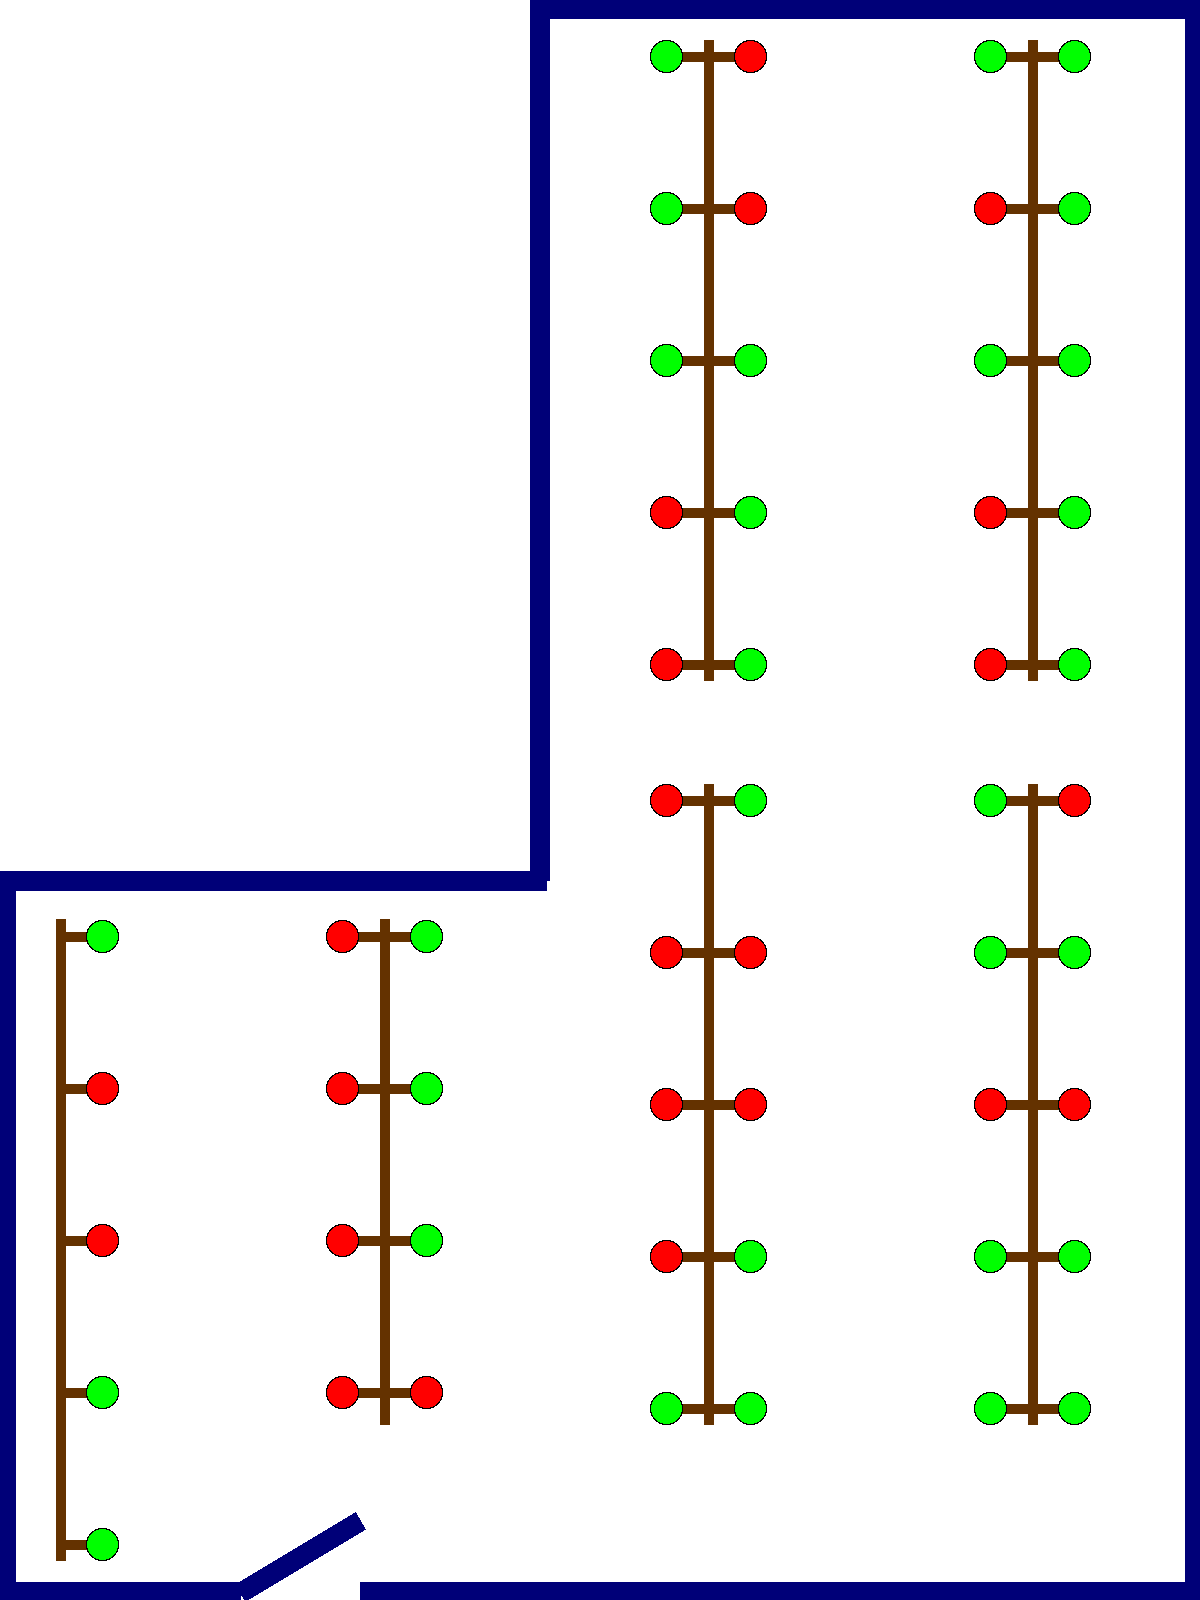
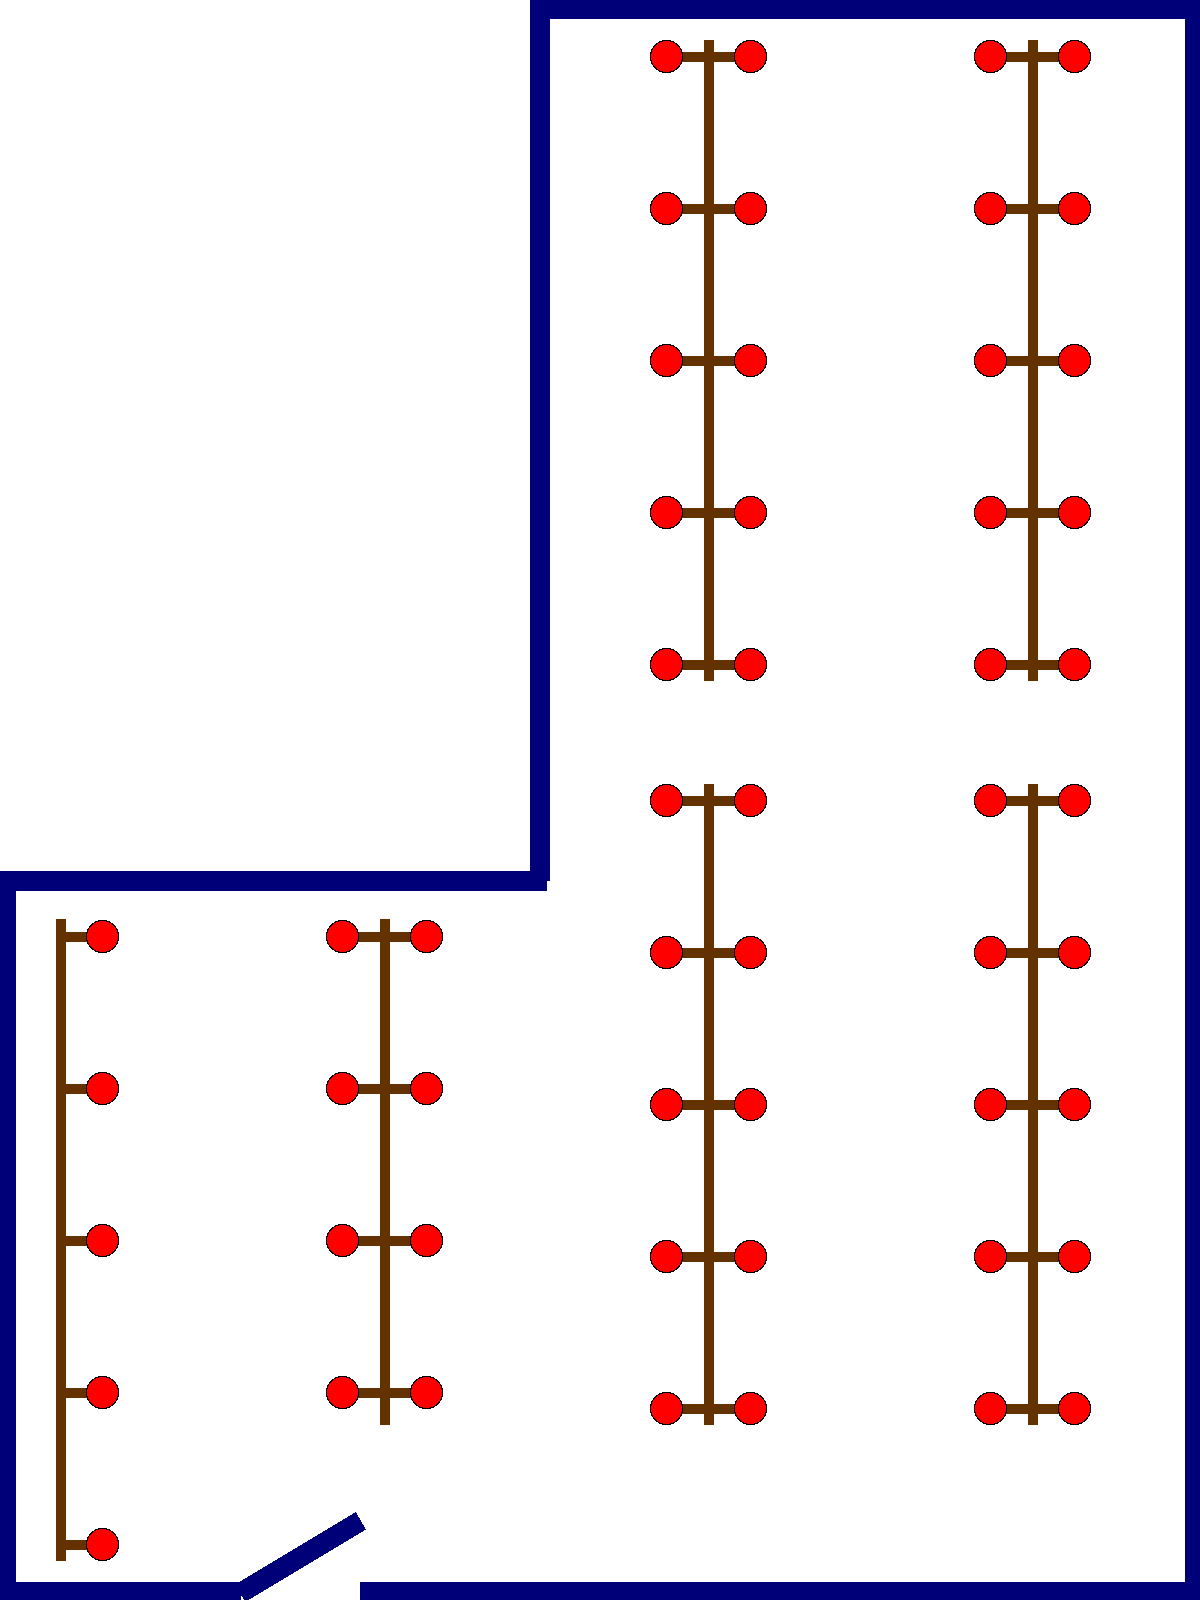
finished all my scripts. everything works completely now

diff --git a/DrawingScripts/Tootill1/drawTootill1.py b/DrawingScripts/Tootill1/drawTootill1.py
@@ -179,19 +179,15 @@ def imDrawer():
   colour = (255,255,255)
   nextStatus = ""
 
-  noGroups = True
-  if len(desiredGroups) != 0: # if there is no lab scheduled at the current time
-    noGroups = False
-
 
   for node in nodeCoords:
     # calculate node colour based off of status from database:
     nextStatus = cursor.fetchone()  # this returns a tuple in which the first value is the colour of that seat
     nextStatus = nextStatus[0].split(",")
-
+    
     if nextStatus[1] == "empty":                   # if the computer is free
       colour = nodeGreen
-    elif nextStatus in desiredGroups: # if occupied by desired lab group
+    elif nextStatus[1] == desiredGroup: # if occupied by desired lab group
       colour = nodeYellow
     else:
       colour = nodeRed              # if occupied by someone who shouldn't be there
@@ -267,12 +263,11 @@ cursor = db.cursor()
 
 # define array holding the groups which should be here currently by reading from database
 # this is only for the staff login though. irrelevant to students
-desiredGroups = []
 numOfRows = cursor.execute("SELECT COUNT(*) FROM desiredGroups")  # returns number of desired groups
 
 cursor.execute("SELECT `Tootill 1` FROM desiredGroups") # points cursor to correct place
 
-desiredGroups.append(cursor.fetchone()) # adds group name to array of desired groups
+desiredGroup = (cursor.fetchone())[0] # adds group name to array of desired groups
 
 #-------------------------------------------------------------------------------
 imDrawer()

diff --git a/DrawingScripts/LF31/drawLF31.py b/DrawingScripts/LF31/drawLF31.py
@@ -164,7 +164,7 @@ def imDrawer():
 
     if nextStatus[0] == "empty":                   # if the computer is free
       colour = nodeGreen
-    elif nextStatus in desiredGroups: # if occupied by desired lab group
+    elif nextStatus[0] == desiredGroup: # if occupied by desired lab group
       colour = nodeYellow
     else:
       colour = nodeRed              # if occupied by someone who shouldn't be there
@@ -221,18 +221,16 @@ cursor = db.cursor()
 
 # define array holding the groups which should be here currently by reading from database
 # this is only for the staff login though. irrelevant to students
-desiredGroups = []
 numOfRows = cursor.execute("SELECT COUNT(*) FROM desiredGroups")  # returns number of desired groups
 
 cursor.execute("SELECT LF31 FROM desiredGroups") # points cursor to correct place
 
-desiredGroups.append(cursor.fetchone()) # adds group name to array of desired groups
+desiredGroup = (cursor.fetchone())[0] # adds group name to array of desired groups
 
 #-------------------------------------------------------------------------------
 imDrawer()
 # close database and print time taken to draw and save image
 db.close()
-
 
 
 end = time.time()

diff --git a/DrawingScripts/Tootill0/drawTootill0.py b/DrawingScripts/Tootill0/drawTootill0.py
@@ -208,7 +208,7 @@ def imDrawer():
 
     if nextStatus[2] == "empty":                   # if the computer is free
       colour = nodeGreen
-    elif nextStatus in desiredGroups: # if occupied by desired lab group
+    elif nextStatus[2] == desiredGroup: # if occupied by desired lab group
       colour = nodeYellow
     else:
       colour = nodeRed              # if occupied by someone who shouldn't be there
@@ -287,12 +287,11 @@ cursor = db.cursor()
 
 # define array holding the groups which should be here currently by reading from database
 # this is only for the staff login though. irrelevant to students
-desiredGroups = []
 numOfRows = cursor.execute("SELECT COUNT(*) FROM desiredGroups")  # returns number of desired groups
 
 cursor.execute("SELECT `Tootill 0` FROM desiredGroups") # points cursor to correct place
 
-desiredGroups.append(cursor.fetchone()) # adds group name to array of desired groups
+desiredGroup = (cursor.fetchone())[0] # adds group name to array of desired groups
 
 #-------------------------------------------------------------------------------
 imDrawer()
